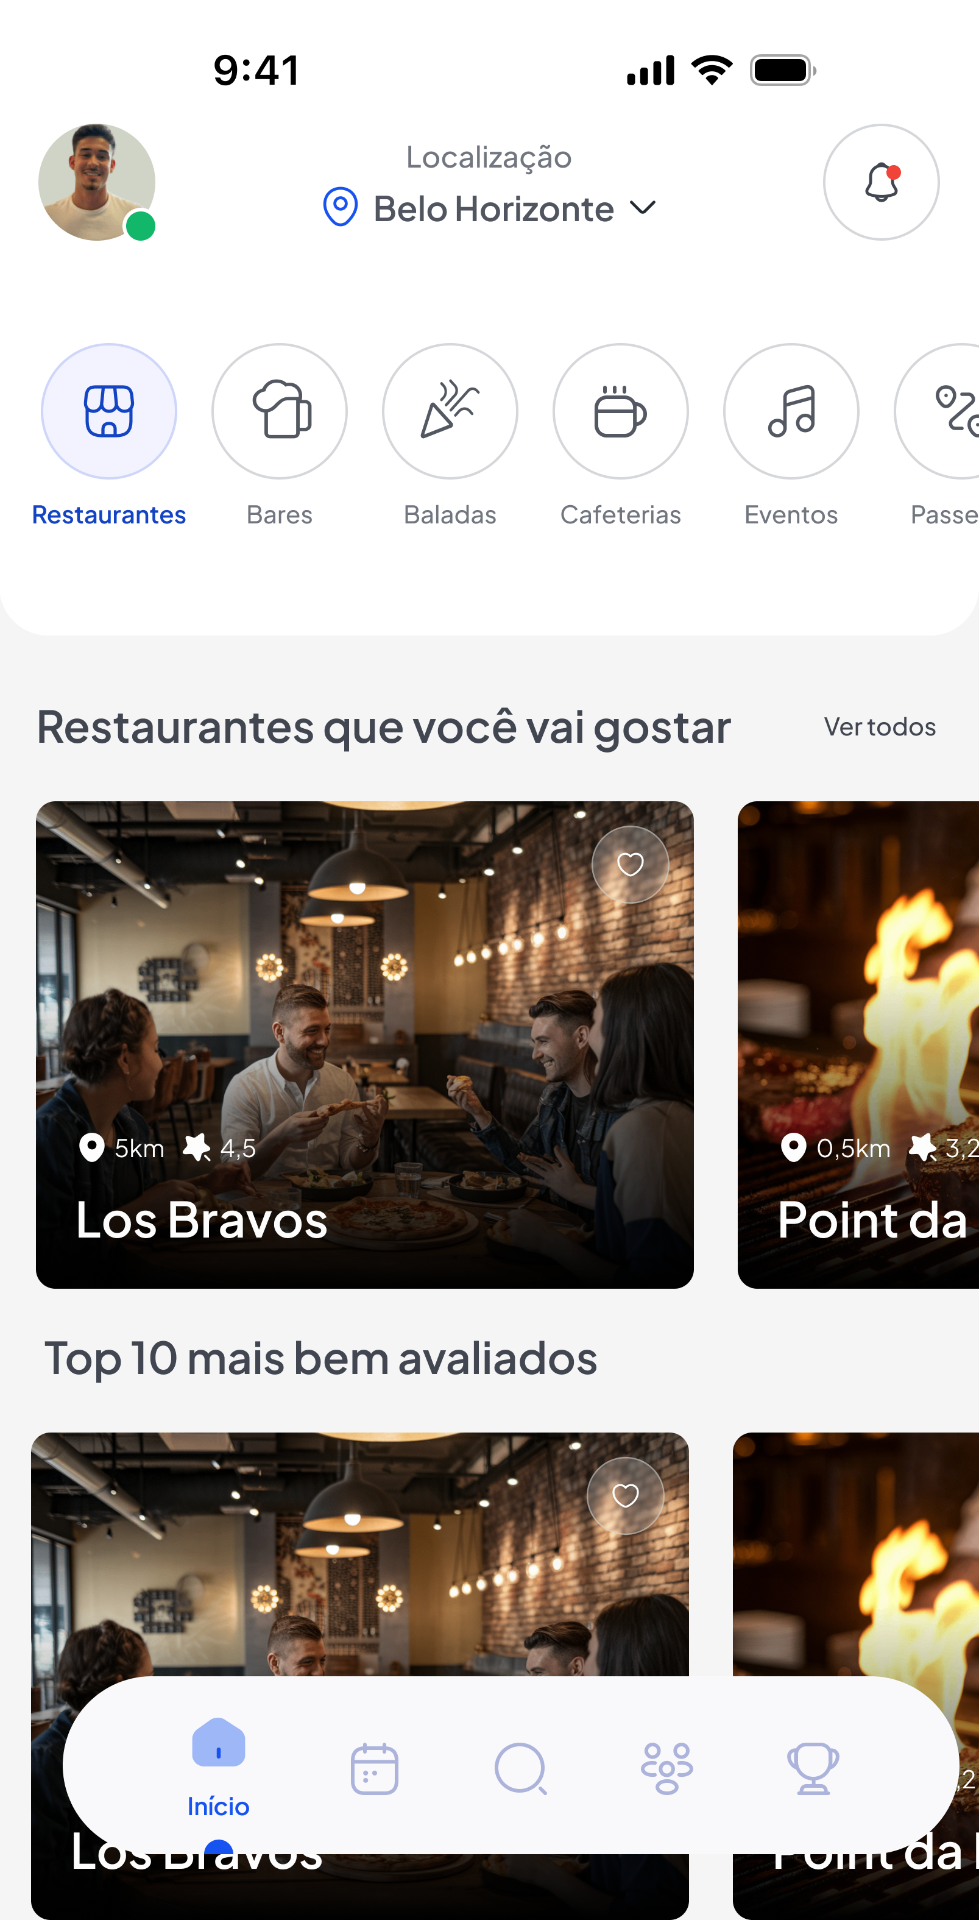
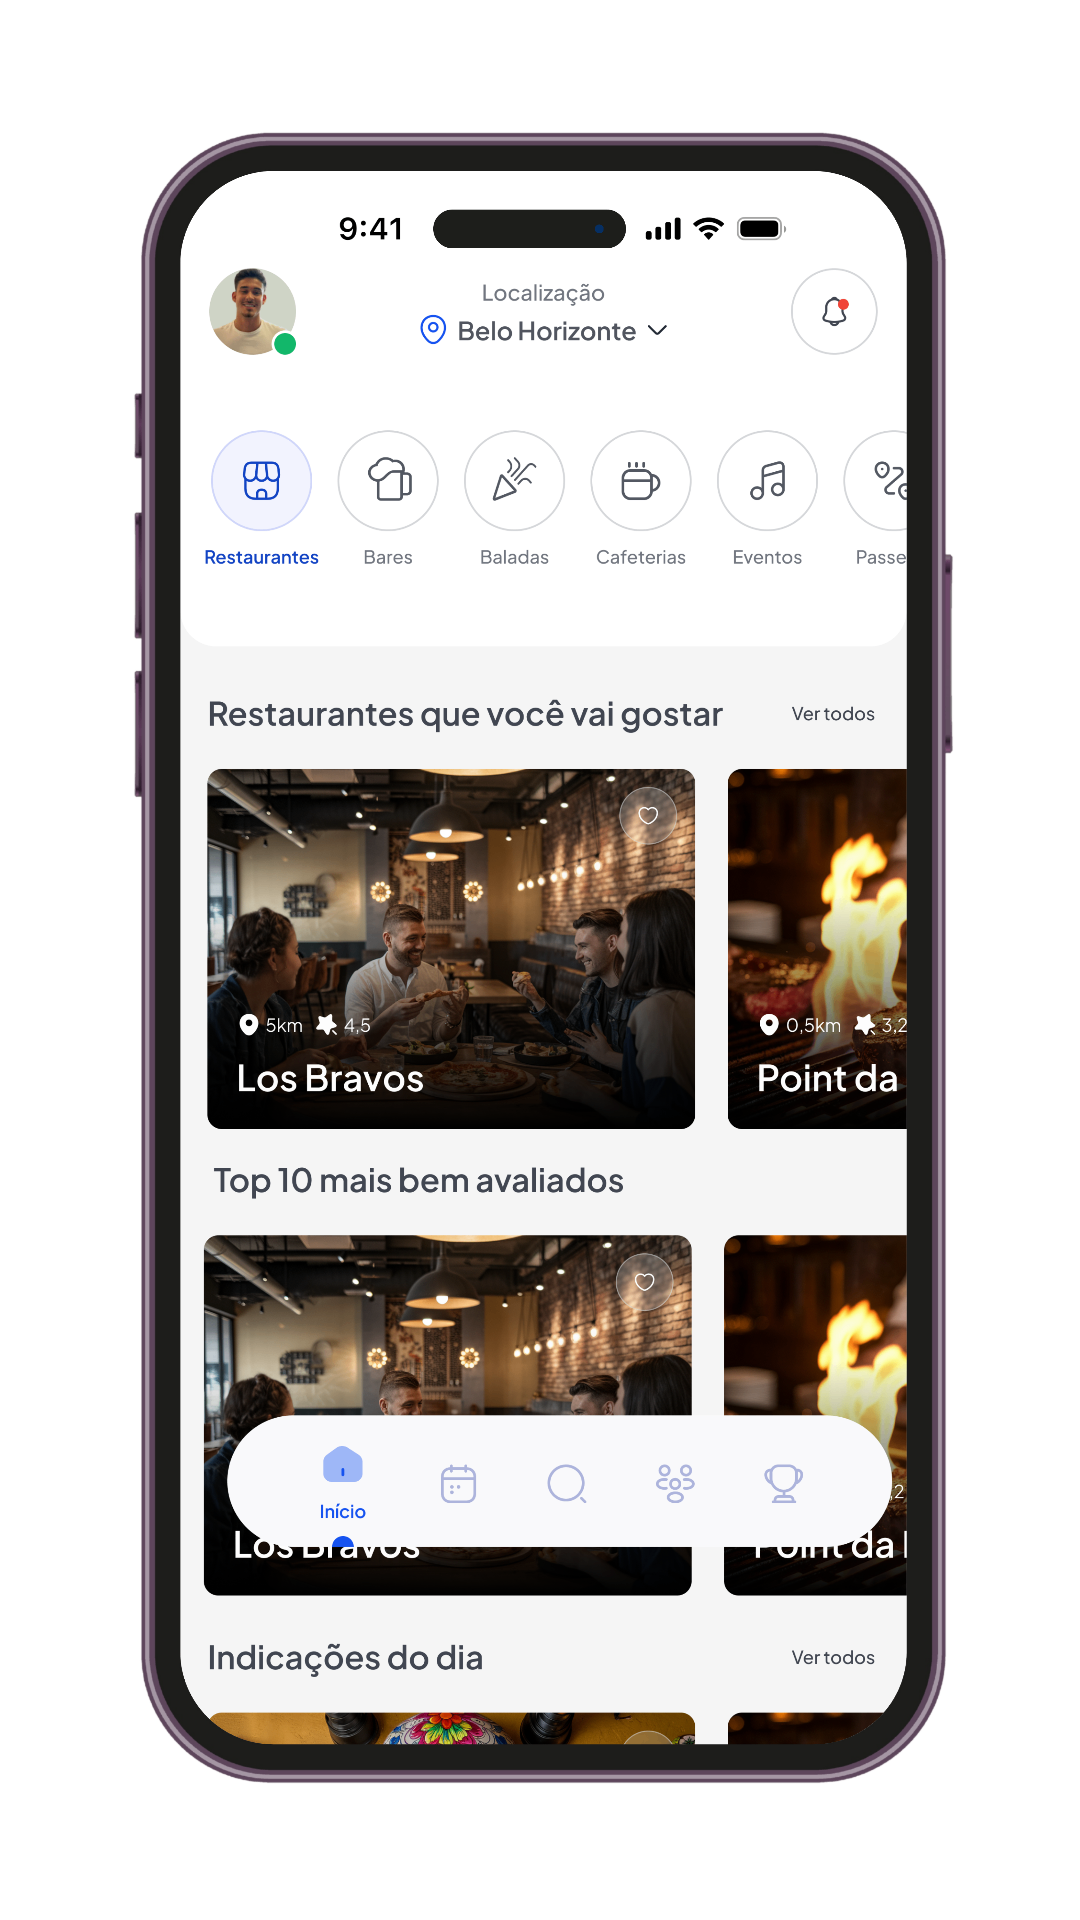
Changes

diff --git a/src/components/landing/Hero.tsx b/src/components/landing/Hero.tsx
@@ -62,12 +62,12 @@ const Hero = () => {
 
         {/* Phone Mockup Section with Floating Cards */}
         <div className="relative flex justify-center animate-fade-up" style={{ animationDelay: "0.4s" }}>
-          <div className="relative max-w-[900px] w-full">
+          <div className="relative max-w-[900px] w-full flex justify-center">
             
-            {/* Floating Notification Cards - Left Side */}
+            {/* Floating Notification Cards - Left Side - Hidden on mobile */}
             
             {/* Card 1 - Points/Rewards */}
-            <div className="absolute left-0 md:left-[5%] top-[5%] bg-white rounded-2xl p-4 shadow-xl shadow-brand-500/10 animate-notification-pop z-20 border border-brand-100/50 hover:scale-105 transition-transform duration-300 max-w-[200px]" style={{ animationDelay: "0.8s" }}>
+            <div className="hidden md:block absolute left-[5%] lg:left-[8%] top-[5%] bg-white rounded-2xl p-4 shadow-xl shadow-brand-500/10 animate-notification-pop z-20 border border-brand-100/50 hover:scale-105 transition-transform duration-300 max-w-[200px]" style={{ animationDelay: "0.8s" }}>
               <div className="flex items-center gap-3">
                 <div className="w-12 h-12 bg-gradient-to-br from-amber-100 to-amber-200 rounded-xl flex items-center justify-center shadow-inner">
                   <Trophy className="w-6 h-6 text-amber-600" />
@@ -80,7 +80,7 @@ const Hero = () => {
             </div>
 
             {/* Card 2 - Location */}
-            <div className="absolute left-0 md:left-[2%] top-[35%] bg-white rounded-2xl p-4 shadow-xl shadow-brand-500/10 animate-notification-pop z-20 border border-brand-100/50 hover:scale-105 transition-transform duration-300" style={{ animationDelay: "1.1s" }}>
+            <div className="hidden md:block absolute left-[2%] lg:left-[5%] top-[35%] bg-white rounded-2xl p-4 shadow-xl shadow-brand-500/10 animate-notification-pop z-20 border border-brand-100/50 hover:scale-105 transition-transform duration-300" style={{ animationDelay: "1.1s" }}>
               <div className="flex items-center gap-3">
                 <div className="w-11 h-11 bg-gradient-to-br from-brand-100 to-brand-200 rounded-xl flex items-center justify-center shadow-inner">
                   <MapPin className="w-5 h-5 text-brand-600" />
@@ -93,7 +93,7 @@ const Hero = () => {
             </div>
 
             {/* Card 3 - Time/Schedule */}
-            <div className="absolute left-[5%] md:left-[8%] bottom-[15%] bg-white rounded-2xl p-4 shadow-xl shadow-brand-500/10 animate-notification-pop z-20 border border-brand-100/50 hover:scale-105 transition-transform duration-300" style={{ animationDelay: "1.4s" }}>
+            <div className="hidden lg:block absolute left-[8%] bottom-[15%] bg-white rounded-2xl p-4 shadow-xl shadow-brand-500/10 animate-notification-pop z-20 border border-brand-100/50 hover:scale-105 transition-transform duration-300" style={{ animationDelay: "1.4s" }}>
               <div className="flex items-center gap-3">
                 <div className="w-11 h-11 bg-gradient-to-br from-purple-100 to-purple-200 rounded-xl flex items-center justify-center shadow-inner">
                   <Clock className="w-5 h-5 text-purple-600" />
@@ -105,10 +105,10 @@ const Hero = () => {
               </div>
             </div>
 
-            {/* Floating Notification Cards - Right Side */}
+            {/* Floating Notification Cards - Right Side - Hidden on mobile */}
             
             {/* Card 4 - Reservation */}
-            <div className="absolute right-0 md:right-[5%] top-[8%] bg-white rounded-2xl p-4 shadow-xl shadow-brand-500/10 animate-notification-pop z-20 border border-brand-100/50 hover:scale-105 transition-transform duration-300" style={{ animationDelay: "0.9s" }}>
+            <div className="hidden md:block absolute right-[5%] lg:right-[8%] top-[8%] bg-white rounded-2xl p-4 shadow-xl shadow-brand-500/10 animate-notification-pop z-20 border border-brand-100/50 hover:scale-105 transition-transform duration-300" style={{ animationDelay: "0.9s" }}>
               <div className="flex items-center gap-3">
                 <div className="w-12 h-12 bg-gradient-to-br from-green-100 to-green-200 rounded-xl flex items-center justify-center shadow-inner">
                   <Calendar className="w-6 h-6 text-green-600" />
@@ -121,7 +121,7 @@ const Hero = () => {
             </div>
 
             {/* Card 5 - Notification/Offer */}
-            <div className="absolute right-0 md:right-[2%] top-[38%] bg-white rounded-2xl p-4 shadow-xl shadow-brand-500/10 animate-notification-pop z-20 border border-brand-100/50 hover:scale-105 transition-transform duration-300 max-w-[180px]" style={{ animationDelay: "1.2s" }}>
+            <div className="hidden md:block absolute right-[2%] lg:right-[5%] top-[38%] bg-white rounded-2xl p-4 shadow-xl shadow-brand-500/10 animate-notification-pop z-20 border border-brand-100/50 hover:scale-105 transition-transform duration-300 max-w-[180px]" style={{ animationDelay: "1.2s" }}>
               <div className="flex items-center gap-3">
                 <div className="w-11 h-11 bg-gradient-to-br from-red-100 to-red-200 rounded-xl flex items-center justify-center shadow-inner">
                   <Bell className="w-5 h-5 text-red-500" />
@@ -134,7 +134,7 @@ const Hero = () => {
             </div>
 
             {/* Card 6 - Favorite */}
-            <div className="absolute right-[5%] md:right-[8%] bottom-[12%] bg-white rounded-2xl p-4 shadow-xl shadow-brand-500/10 animate-notification-pop z-20 border border-brand-100/50 hover:scale-105 transition-transform duration-300" style={{ animationDelay: "1.5s" }}>
+            <div className="hidden lg:block absolute right-[8%] bottom-[12%] bg-white rounded-2xl p-4 shadow-xl shadow-brand-500/10 animate-notification-pop z-20 border border-brand-100/50 hover:scale-105 transition-transform duration-300" style={{ animationDelay: "1.5s" }}>
               <div className="flex items-center gap-3">
                 <div className="w-11 h-11 bg-gradient-to-br from-pink-100 to-pink-200 rounded-xl flex items-center justify-center shadow-inner">
                   <Heart className="w-5 h-5 text-pink-500 fill-pink-500" />
@@ -146,34 +146,27 @@ const Hero = () => {
               </div>
             </div>
 
-            {/* Small floating icon bubbles */}
-            <div className="absolute left-[15%] top-[60%] w-10 h-10 bg-white rounded-full shadow-lg flex items-center justify-center animate-float-fast z-10 border border-brand-100/50" style={{ animationDelay: "0.3s" }}>
+            {/* Small floating icon bubbles - Hidden on mobile */}
+            <div className="hidden md:flex absolute left-[15%] top-[60%] w-10 h-10 bg-white rounded-full shadow-lg items-center justify-center animate-float-fast z-10 border border-brand-100/50" style={{ animationDelay: "0.3s" }}>
               <Utensils className="w-5 h-5 text-brand-500" />
             </div>
-            <div className="absolute right-[12%] top-[55%] w-10 h-10 bg-white rounded-full shadow-lg flex items-center justify-center animate-float z-10 border border-brand-100/50" style={{ animationDelay: "1.8s" }}>
+            <div className="hidden md:flex absolute right-[12%] top-[55%] w-10 h-10 bg-white rounded-full shadow-lg items-center justify-center animate-float z-10 border border-brand-100/50" style={{ animationDelay: "1.8s" }}>
               <Coffee className="w-5 h-5 text-brand-500" />
             </div>
-            <div className="absolute left-[20%] bottom-[5%] w-9 h-9 bg-white rounded-full shadow-lg flex items-center justify-center animate-float-slow z-10 border border-brand-100/50" style={{ animationDelay: "0.8s" }}>
+            <div className="hidden lg:flex absolute left-[20%] bottom-[5%] w-9 h-9 bg-white rounded-full shadow-lg items-center justify-center animate-float-slow z-10 border border-brand-100/50" style={{ animationDelay: "0.8s" }}>
               <Users className="w-4 h-4 text-brand-500" />
             </div>
 
             {/* Glow effect behind phone */}
-            <div className="absolute top-1/2 left-1/2 -translate-x-1/2 -translate-y-1/2 w-[320px] h-[550px] bg-gradient-to-br from-brand-400/20 to-brand-600/10 rounded-full blur-3xl" />
+            <div className="absolute top-1/2 left-1/2 -translate-x-1/2 -translate-y-1/2 w-[280px] md:w-[350px] h-[500px] md:h-[600px] bg-gradient-to-br from-brand-400/20 to-brand-600/10 rounded-full blur-3xl" />
 
-            {/* Phone Frame - Centered */}
-            <div className="relative w-[260px] md:w-[280px] mx-auto bg-gray-900 rounded-[3rem] p-2 shadow-2xl shadow-brand-900/30 transform hover:scale-[1.02] transition-transform duration-500 z-10">
-              {/* Phone notch */}
-              <div className="absolute top-0 left-1/2 -translate-x-1/2 w-24 h-6 bg-gray-900 rounded-b-2xl z-20" />
-              {/* Screen */}
-              <div className="rounded-[2.5rem] overflow-hidden bg-white">
-                <img
-                  src={appMockup}
-                  alt="Ondir App - Lista de restaurantes"
-                  className="w-full h-auto"
-                />
-              </div>
-              {/* Home indicator */}
-              <div className="absolute bottom-2 left-1/2 -translate-x-1/2 w-28 h-1 bg-gray-700 rounded-full" />
+            {/* Phone Mockup - Using the uploaded mockup with built-in frame */}
+            <div className="relative w-[280px] md:w-[320px] lg:w-[360px] mx-auto transform hover:scale-[1.02] transition-transform duration-500 z-10">
+              <img
+                src={appMockup}
+                alt="Ondir App - Lista de restaurantes"
+                className="w-full h-auto drop-shadow-2xl"
+              />
             </div>
           </div>
         </div>
